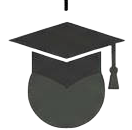
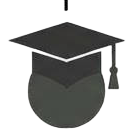
测试去除背景的效果

diff --git a/step2/step2_sam3_roboflow_only_one_simple.py b/step2/step2_sam3_roboflow_only_one_simple.py
@@ -22,8 +22,8 @@ from PIL import Image, ImageDraw, ImageFont
 
 # ---- Hardcoded configuration ----
 IMAGE_PATH = "step2/sample_images/Validation_Framework_Medical_Vision_202605151644.jpeg"
-OUTPUT_DIR = f"step2/sam3_outputs/{Path(IMAGE_PATH).stem}_just_icon"
-TEXT_PROMPTS = "icon"
+OUTPUT_DIR = f"step2/sam3_outputs/{Path(IMAGE_PATH).stem}"
+TEXT_PROMPTS = "document,eye mask,monitor,x-ray,clock,gear,scale,brain,icon"
 MIN_SCORE = 0.5
 MERGE_THRESHOLD = 0.01
 # Size filter: drop boxes too small relative to the image size.

diff --git a/rmbg/test_rmbg.py b/rmbg/test_rmbg.py
@@ -42,7 +42,7 @@ def remove_background(
         trust_remote_code=True,
     ).eval().to(device)
 
-    image_size = (1024, 1024)
+    image_size = (512, 512)
 
     transform_image = transforms.Compose([
         transforms.Resize(image_size),